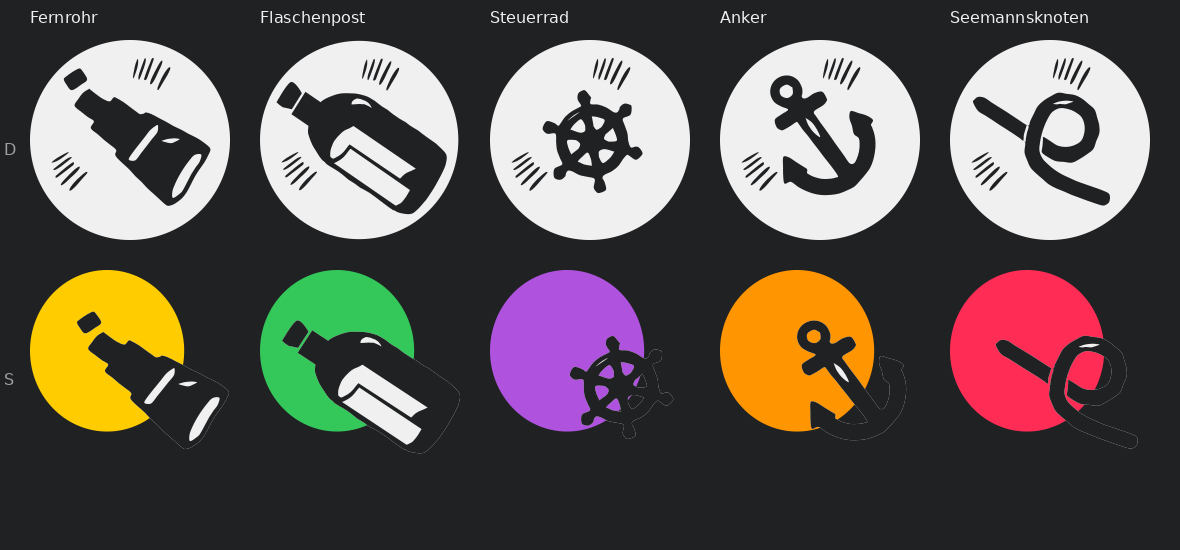
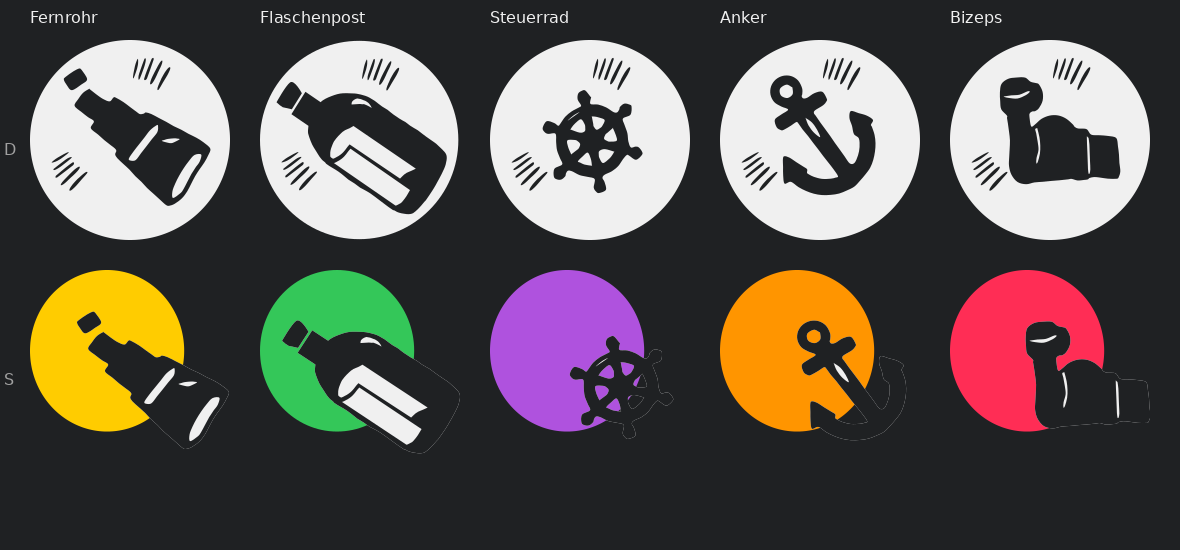
Macher:in: angespannter Arm statt Seemannsknoten
Übergabe/Abzeichen-Icons: Bizeps Small und Default, Knoten entfernt.
App: Platzhalter-Symbol und Kater-Satz angepasst.

Claude-Session: https://claude.ai/code/session_01YDEJ2FVKtftXbfLnCSSHPS

Changed region(s): [[0.8237, 0.1236, 0.9763, 0.3709], [0.8237, 0.5873, 0.9763, 0.7727], [0.7932, 0.0, 0.9153, 0.0618]]

diff --git a/src/components/BadgeIcon.tsx b/src/components/BadgeIcon.tsx
@@ -30,9 +30,9 @@ const ICONS: Record<BadgeKind, string> = {
   seebaer: svg(
     `<circle cx="12" cy="4.6" r="1.9"/><path d="M12 6.5V20.5"/><path d="M8 9.6h8"/><path d="M4.4 13.6c0.4 4.2 3.7 6.9 7.6 6.9s7.2-2.7 7.6-6.9"/><path d="M2.8 15.2l1.6-1.6l1.6 1.6M18 15.2l1.6-1.6l1.6 1.6"/>`,
   ),
-  // Seemannsknoten
+  // Angespannter Arm (Macher:in, Daria 2026-11-01): Faust oben, Bizeps, hochgekrempelter Ärmel rechts
   macher: svg(
-    `<path d="M12 12c-2.6-3.4-7.4-3.4-7.4 0s4.8 3.4 7.4 0s7.4-3.4 7.4 0s-4.8 3.4-7.4 0z"/><path d="M4.6 12c0 0-1.8 3.6-2.1 6.5M19.4 12c0 0 1.8-3.6 2.1-6.5"/>`,
+    `<path d="M6.5 4.5c1.6-.9 3.6-.6 4.4.9.6 1.1.2 2.4-.6 3.1l-.6 4.2c1-.9 2.5-1.6 4.2-1.4 1.8.2 3 1.1 3.6 2.2"/><path d="M6.5 4.5c-1 .8-1.4 2.2-.9 3.4l.7 1.6-.9 7.5c-.1 1.3.8 2.2 2 2.2h7.8"/><path d="M17.5 13.5v6.2h3v-6.4h-3"/><path d="M8 6.8h2.4"/>`,
   ),
 };
 

diff --git a/src/data/badges.ts b/src/data/badges.ts
@@ -63,7 +63,7 @@ export const BADGES: BadgeMeta[] = [
     color: '#FFB2E5',
     rule: 'Erledige 15 We-Challenges',
     earned: '15 We-Challenges erledigt',
-    kater: '15 We-Challenges geschafft. Du redest nicht lange, Du machst den Knoten fest.',
+    kater: '15 We-Challenges geschafft. Du redest nicht lange, Du packst an. We can do it!',
   },
 ];
 
